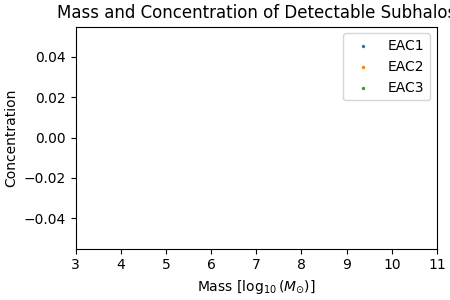
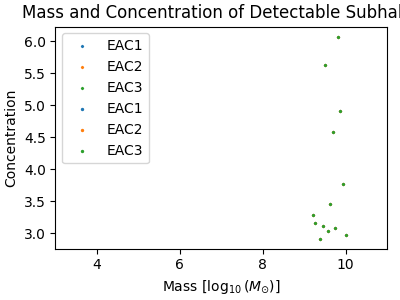
work on hwo subhalo detection

diff --git a/projects/hwo/pipeline/hwo_subhalo_detection_compare.py b/projects/hwo/pipeline/hwo_subhalo_detection_compare.py
@@ -13,14 +13,15 @@ from pyHalo.single_realization import SingleHalo
 from scipy.stats import chi2
 from tqdm import tqdm
 
+from mejiro.analysis import stats
+from mejiro.synthetic_image import SyntheticImage
+from mejiro.exposure import Exposure
+from mejiro.plots import plot_util
+from mejiro.utils import util
+from mejiro.instruments.hwo import HWO
+
 
 def process_lens(params):
-    from mejiro.analysis import stats
-    from mejiro.utils import util
-    from mejiro.synthetic_image import SyntheticImage
-    from mejiro.exposure import Exposure
-    from mejiro.plots import plot_util
-
     (run, lens, hwo, script_config, imaging_params, subhalo_params, save_dir, image_save_dir,
      idx_to_save) = params
     rng_seed = script_config['rng_seed']
@@ -32,7 +33,7 @@ def process_lens(params):
 
     kwargs_numerics = {
         'supersampling_factor': oversample,
-        'compute_mode': 'regular',
+        'compute_mode': 'adaptive',
     }
 
     detectable_halos = []
@@ -194,7 +195,6 @@ def process_lens(params):
             plt.savefig(os.path.join(image_save_dir, f'{lens.name}_{run}.png'))
             plt.close()
 
-
         pvals = [rv.sf(chi) for chi in chi_square_list]
         results[mass_key] = pvals
 
@@ -205,93 +205,96 @@ def process_lens(params):
 
 
 def main():
-    start = time.time()
-
-    os.nice(19)
-
-    sys.path.append('/grad/bwedig/mejiro')
-    from mejiro.utils import util
-    from mejiro.instruments.hwo import HWO
+    os.nice(18)
 
     eacs = [1, 2, 3]
-    for eac in eacs:
-        # script configuration options
-        script_config = {
-            'snr_quantile': 0.9,
-            'num_lenses': 49 * 2,  # None
-            'num_positions': 4,
-            'rng_seed': 42,
-        }
-        subhalo_params = {
-            'masses': np.logspace(4, 10, 100),
-            'r_tidal': 0.5,
-            'sigma_sub': 0.055,
-            'los_normalization': 0.
-        }
-        imaging_params = {
-            'band': 'J',
-            'scene_size': 5,  # arcsec
-            'oversample': 1,
-            'exposure_time': 1e10
-        }
+    bands = ['I', 'J']
+    for band in bands:
+        print(f'Processing band {band}')
+        for eac in eacs:
+            print(f'Processing EAC{eac} of {len(eacs)}')
 
-        # set up directories to save output to
-        data_dir = '/data/bwedig/mejiro'
-        save_dir = os.path.join(data_dir, f'hwo_subhalo_detection_compare_eac{eac}')
-        util.create_directory_if_not_exists(save_dir)
-        util.clear_directory(save_dir)
-        image_save_dir = os.path.join(save_dir, 'images')
-        os.makedirs(image_save_dir, exist_ok=True)
+            start = time.time()
 
-        # collect lenses
-        lens_list = util.unpickle_all('/data/bwedig/mejiro/hwo/dinos_good')
-        print(f'Loaded {len(lens_list)} strong lenses')
-        og_count = len(lens_list)
-        num_lenses = script_config['num_lenses']
-        if num_lenses is not None:
-            repeats = int(np.ceil(num_lenses / len(lens_list)))
-            print(f'Repeating lenses {repeats} time(s)')
-            lens_list *= repeats
-            lens_list = lens_list[:num_lenses]
-        print(f'Processing {len(lens_list)} lens(es) of {og_count}')
+            # script configuration options
+            script_config = {
+                'snr_quantile': 0.95,
+                'num_lenses': 1,  # None
+                'num_positions': 1,
+                'rng_seed': 42,
+            }
+            subhalo_params = {
+                'masses': np.logspace(4, 10, 100),
+                'r_tidal': 0.5,
+                'sigma_sub': 0.055,
+                'los_normalization': 0.
+            }
+            imaging_params = {
+                'band': band,
+                'scene_size': 5,  # arcsec
+                'oversample': 1,
+                'exposure_time': 14400
+            }
 
-        # num_permutations = len(subhalo_params['masses']) * len(lens_list)
-        idx_to_save = np.random.choice(len(lens_list), size=10, replace=False).tolist()
+            # set up directories to save output to
+            data_dir = '/data/bwedig/mejiro'
+            save_dir = os.path.join(data_dir, f'hwo_subhalo_detection_compare_eac{eac}_band{band}')
+            util.create_directory_if_not_exists(save_dir)
+            util.clear_directory(save_dir)
+            image_save_dir = os.path.join(save_dir, 'images')
+            os.makedirs(image_save_dir, exist_ok=True)
 
-        # generate instrument
-        hwo = HWO(eac=f'EAC{eac}')
+            # collect lenses
+            # lens_list = util.unpickle_all('/data/bwedig/mejiro/hwo/dinos_good')
+            lens_list = util.unpickle_all('/data/bwedig/mejiro/hwo/02')
+            print(f'Loaded {len(lens_list)} strong lenses')
+            og_count = len(lens_list)
+            num_lenses = script_config['num_lenses']
+            if num_lenses is not None:
+                repeats = int(np.ceil(num_lenses / len(lens_list)))
+                print(f'Repeating lenses {repeats} time(s)')
+                lens_list *= repeats
+                lens_list = lens_list[:num_lenses]
+            print(f'Processing {len(lens_list)} lens(es) of {og_count}')
 
-        # generate params list and spin up processes
-        params_list = [
-            (
-                run, lens, hwo, script_config, imaging_params, subhalo_params, save_dir, image_save_dir,
-                idx_to_save)
-            for run, lens in enumerate(lens_list)]
-        count = len(lens_list)
-        cpu_count = multiprocessing.cpu_count()
-        process_count = cpu_count  # - config.machine.headroom_cores
-        process_count -= int(cpu_count / 2)
-        if count < process_count:
-            process_count = count
-        print(f'Spinning up {process_count} process(es) on {cpu_count} core(s)')
+            # num_permutations = len(subhalo_params['masses']) * len(lens_list)
+            idx_to_save = np.random.choice(len(lens_list), size=1, replace=False).tolist()  # TODO set size dynamically
 
-        with ProcessPoolExecutor(max_workers=process_count) as executor:
-            futures = {executor.submit(process_lens, params): params for params in params_list}
+            # generate instrument
+            hwo = HWO(eac=f'EAC{eac}')
 
-            for future in tqdm(as_completed(futures), total=len(futures)):
-                # try:
-                lens_name, results, detectable_halos = future.result()
-                    # if results is not None and detectable_halos is not None:
-                    #     print(f'Processed StrongLens {lens_name}')
-                # except Exception as e:
-                #     print(f"Error encountered: {e}")
+            # generate params list and spin up processes
+            params_list = [
+                (
+                    run, lens, hwo, script_config, imaging_params, subhalo_params, save_dir, image_save_dir,
+                    idx_to_save)
+                for run, lens in enumerate(lens_list)]
+            count = len(lens_list)
+            cpu_count = multiprocessing.cpu_count()
+            process_count = cpu_count  # - config.machine.headroom_cores
+            # process_count -= int(cpu_count / 2)
+            process_count = 28
+            if count < process_count:
+                process_count = count
+            print(f'Spinning up {process_count} process(es) on {cpu_count} core(s)')
 
-        stop = time.time()
-        execution_time = str(datetime.timedelta(seconds=round(stop - start)))
-        print(f'Execution time: {execution_time}')
+            with ProcessPoolExecutor(max_workers=process_count) as executor:
+                futures = {executor.submit(process_lens, params): params for params in params_list}
 
-        execution_time_per_lens = str(datetime.timedelta(seconds=round((stop - start) / len(lens_list))))
-        print(f'Execution time per lens: {execution_time_per_lens}')
+                for future in tqdm(as_completed(futures), total=len(futures)):
+                    # try:
+                    lens_name, results, detectable_halos = future.result()
+                        # if results is not None and detectable_halos is not None:
+                        #     print(f'Processed StrongLens {lens_name}')
+                    # except Exception as e:
+                    #     print(f"Error encountered: {e}")
+
+            stop = time.time()
+            execution_time = str(datetime.timedelta(seconds=round(stop - start)))
+            print(f'Execution time: {execution_time}')
+
+            execution_time_per_lens = str(datetime.timedelta(seconds=round((stop - start) / len(lens_list))))
+            print(f'Execution time per lens: {execution_time_per_lens}')
 
 
 if __name__ == '__main__':
